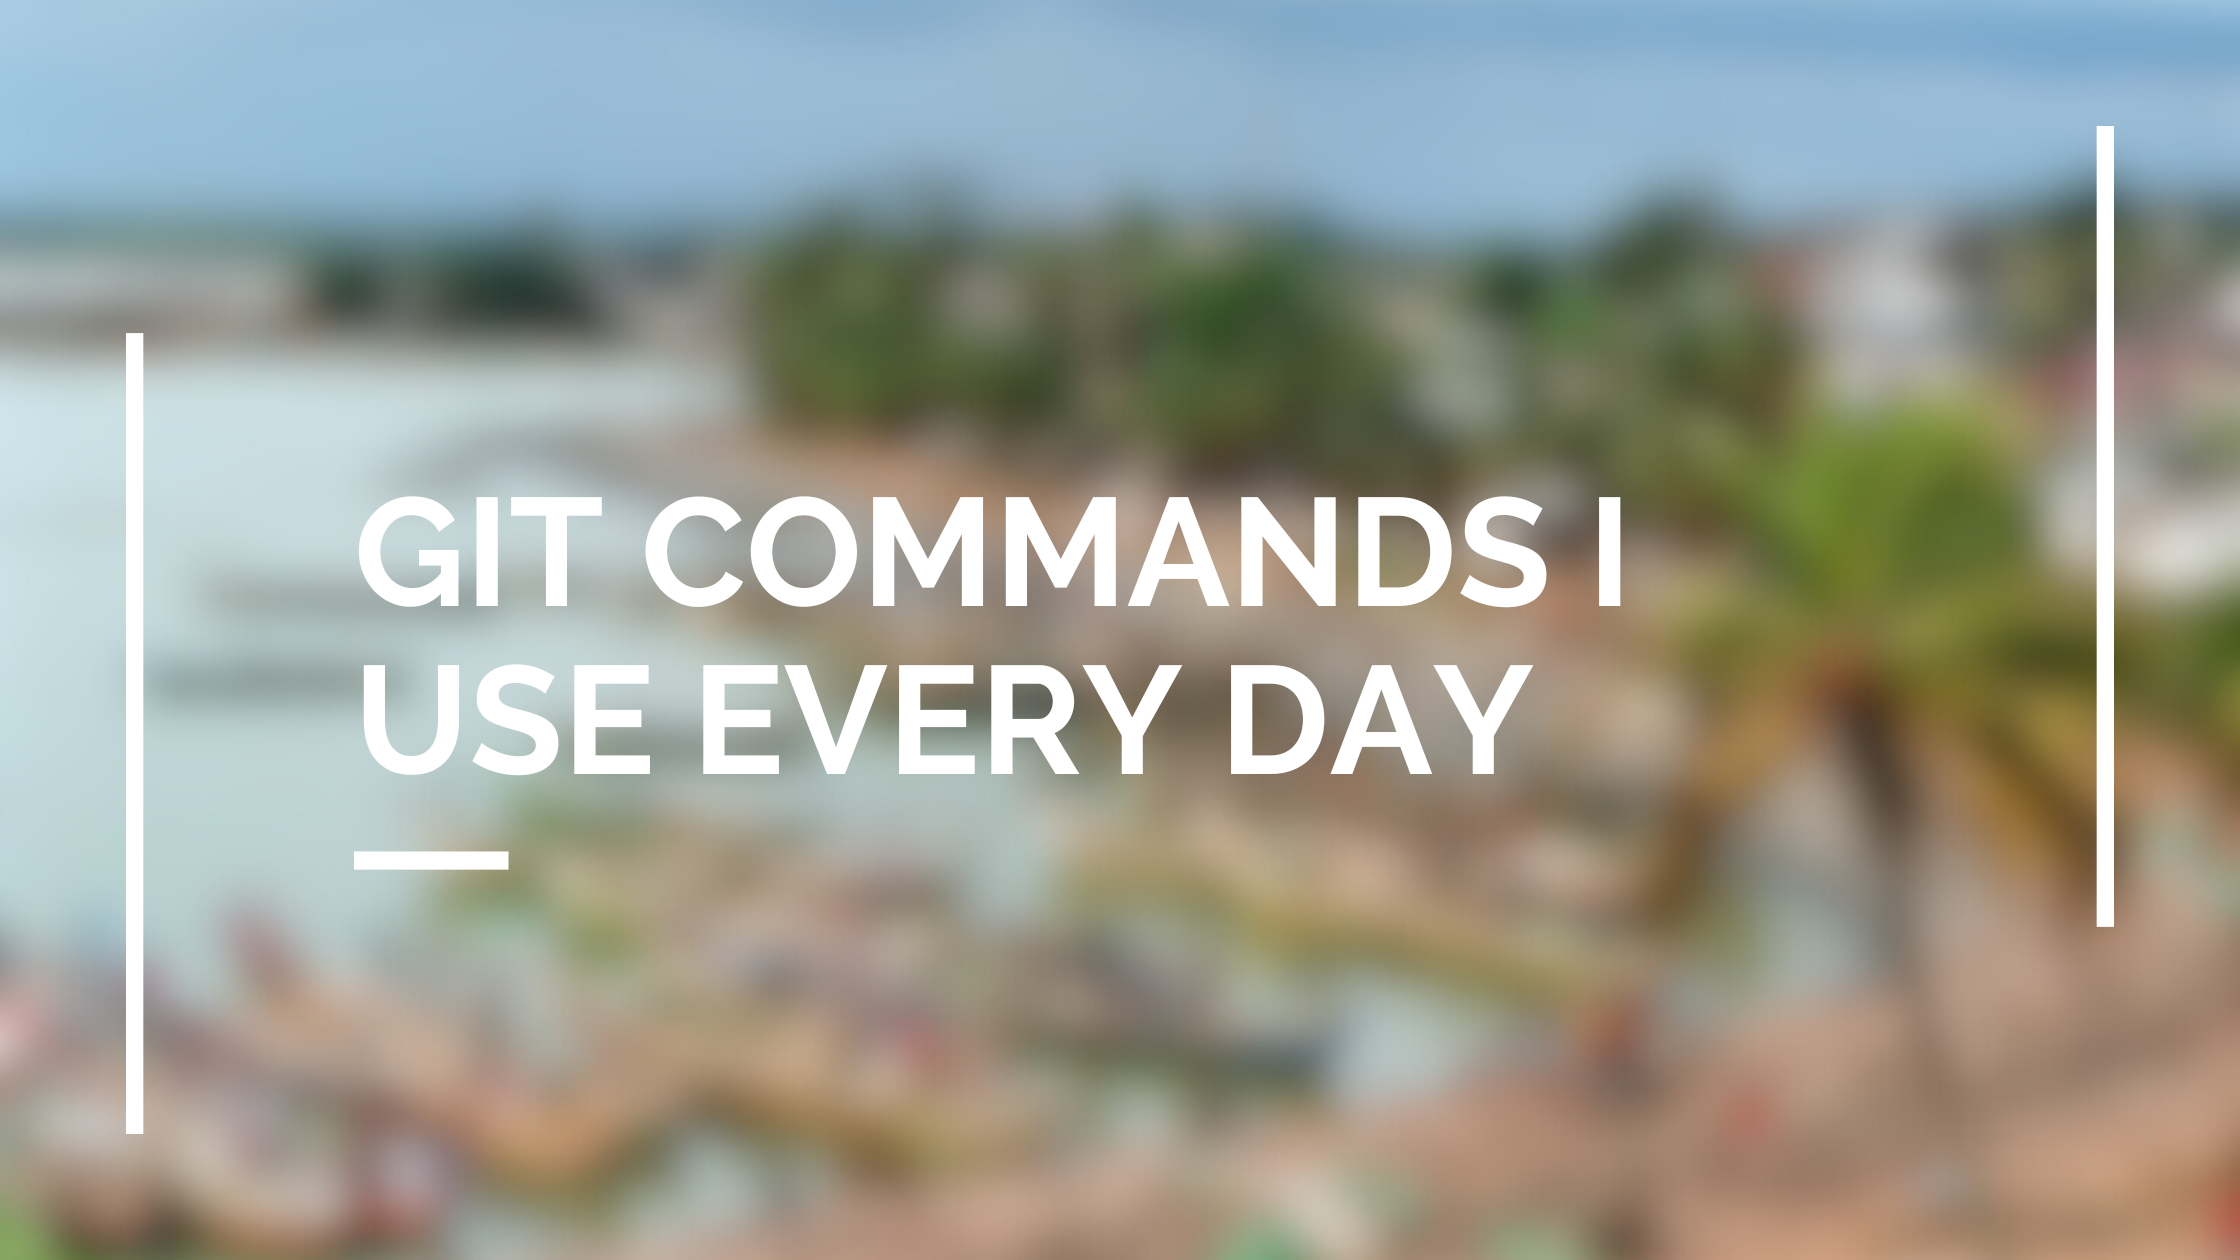
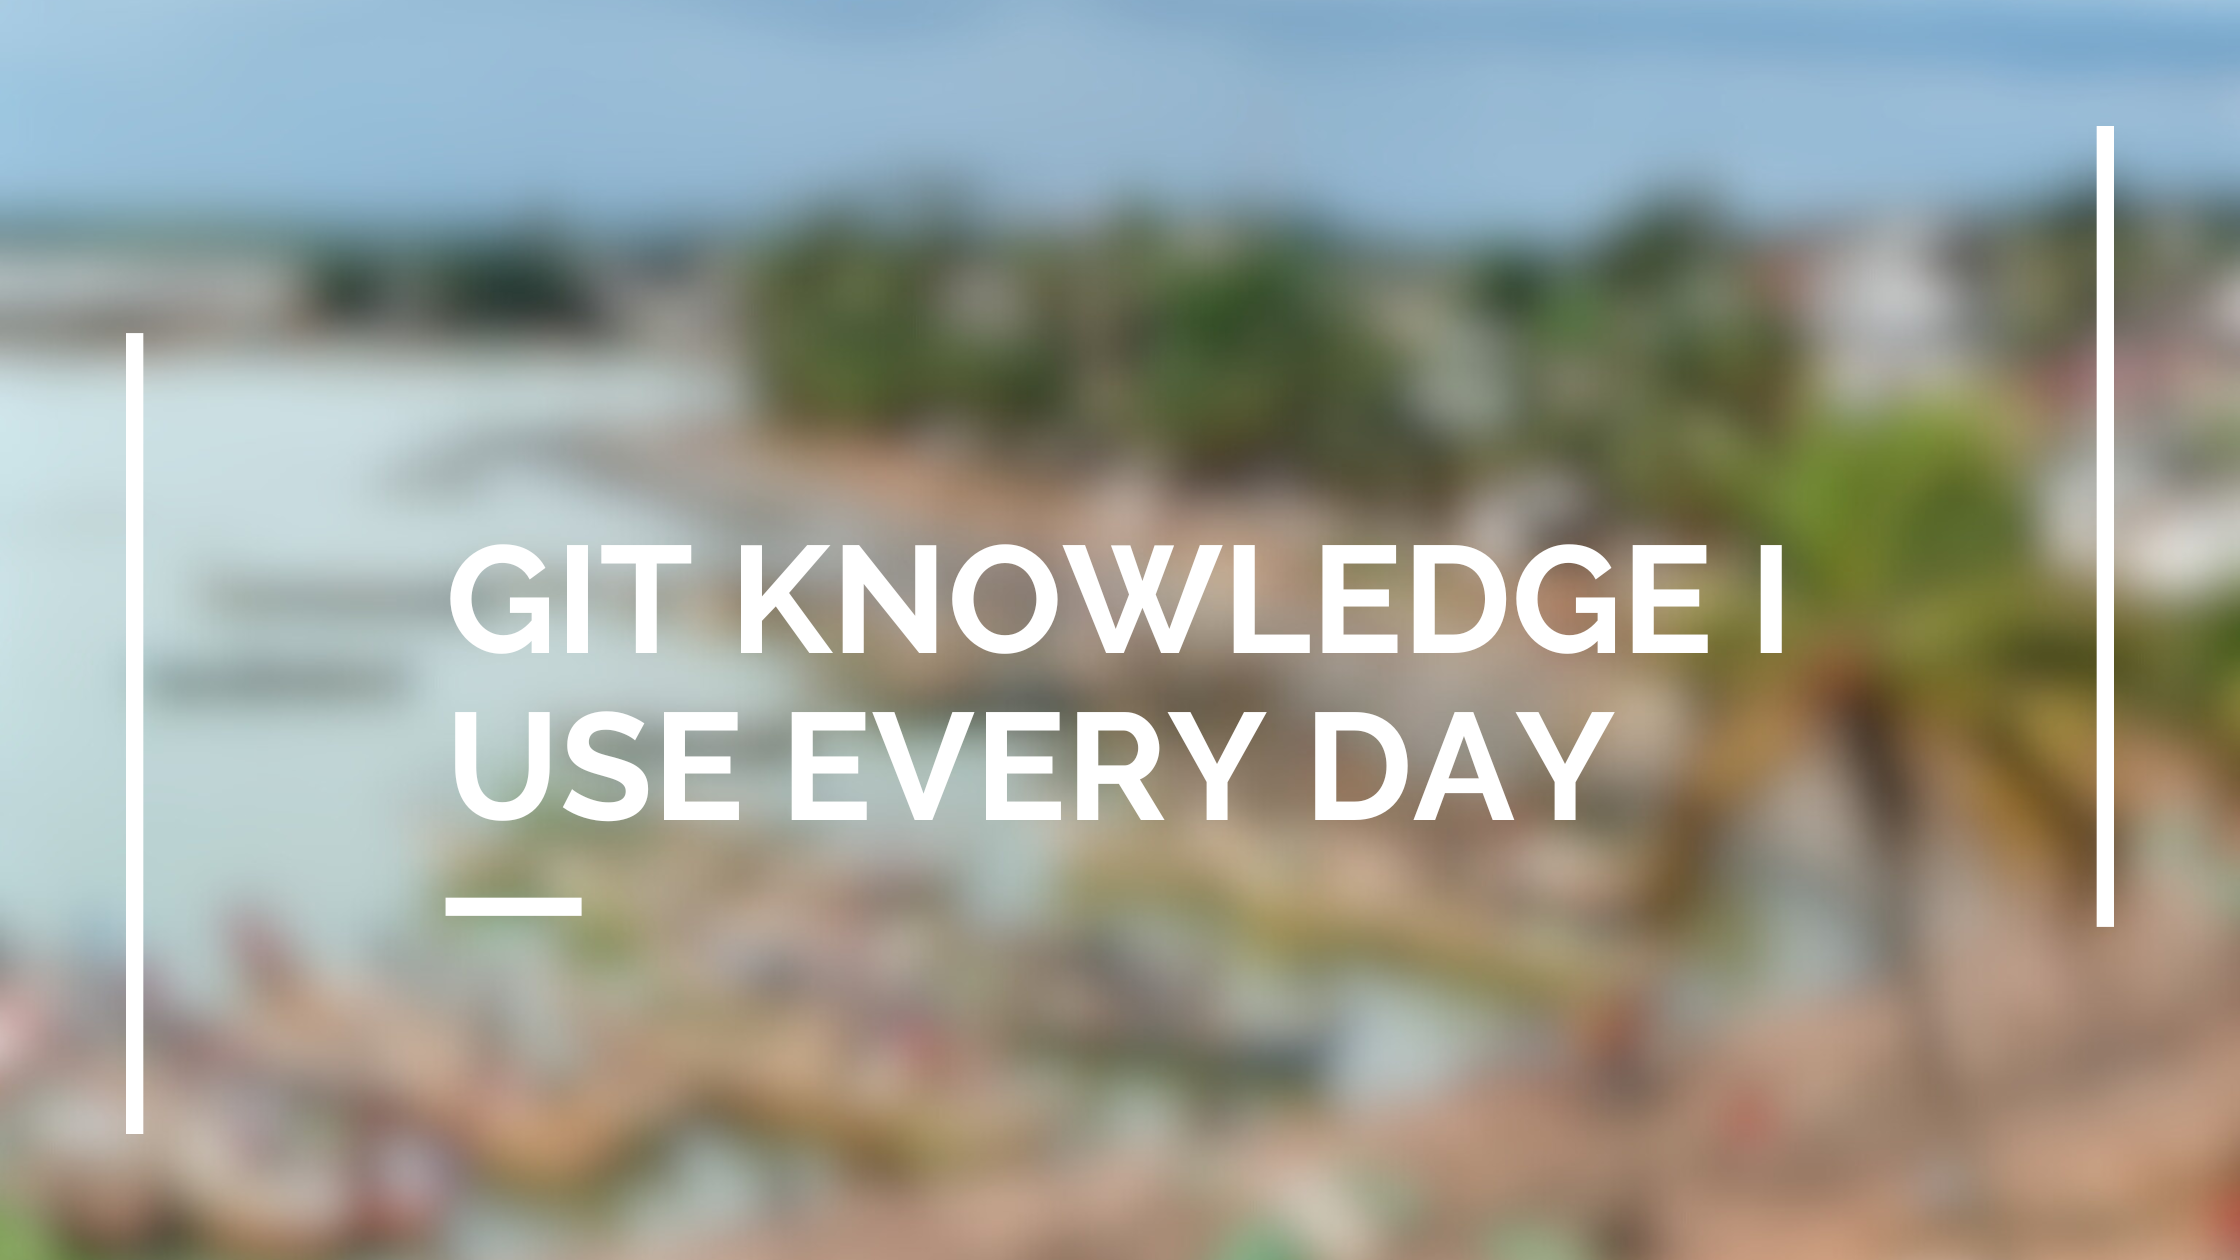
Added git reset to git post

Changed region(s): [[0.1562, 0.3714, 0.8125, 0.7429]]

diff --git a/_posts/24-07-09-git.md b/_posts/24-07-09-git.md
@@ -1,6 +1,6 @@
 ---
 layout: post
-title:  "Git Commands I Use Every Day"
+title:  "Git Knowledge I Use Every Day"
 categories: [DevOps]
 tags: [blog,tech,git,devops]
 image:
@@ -56,3 +56,60 @@ git diff HEAD HEAD~1
 ```
 
 `HEAD` references the most recent Git commit on the branch that you're on, and `HEAD~1` references that commit's immediate parent.
+
+### Broke Some Code, But Your Boss Didn't Like That?
+
+The notorious `git reset` is your friend! It's that one friend that can also give you a headache. However, if we know the friend well, we can get around that.
+
+The quick way is to simply use `git reset --hard` and everything you changed since the last commit is undone. But what if you already committed the broken code?
+Luckily, there is a way to undo this as well. That way is: `git reset --hard HEAD~1`. But before happily resetting everything, please read on!
+
+What is `HEAD~1`? Remember the `git diff` section? `HEAD` is a pointer to your current commit, and `HEAD~1` is pointing to this commit's parent, i.e. the commit that came before the current commit. 
+Using this as part of the git reset command moves the `HEAD` pointer back to your previous commit.
+ 
+But that's the brutal way, bringing your code back to the state of the previous commit. All the changes in the most recent commit are gone, even if there were any that you wanted to keep.
+
+Fortunately, there is a more nuanced way we can go about this.
+
+Those are the soft, mixed, or hard ways. Here's a quick rundown of what each of them means.
+
+```sh
+git reset --soft HEAD~1
+```
+
+Simply undoes the commit itself. All the broken code (and all changes in general) you created since the last commit is still there and staged, but not part of a commit.
+
+```sh
+git reset --mixed HEAD~1
+```
+
+Undoes the commit and unstages the last commit's code. This is what Git applies if you type git reset as well. This way, you can delete all the faulty code and keep what you want to keep. 
+
+```sh
+git reset --hard HEAD~1
+```
+
+Undoes all changes of the last commit. This one is called “hard” because you should think really hard before using this command. It's usually safer to simply use git reset.
+
+Of course, if you would like to reset to older commits, replace `HEAD~1` by `HEAD~x`, x being the amount of commits you want to reset.
+
+If you omit the `HEAD~1`, the same applies, however without shifting the `HEAD` pointer (i.e. without moving you back to your previous commit): 
+
+```sh
+git reset --soft
+```
+Doesn't do anything. Staged changes remain staged, the working directory remains in its current state.
+
+```sh
+git reset --mixed
+```
+
+Unstages any staged code.
+
+```sh
+git reset --hard
+```
+Unstages and removes any changes from the working directory.
+
+>If you're busy working with git commands, never Up Arrow + Enter without thinking. It has caused me significant pain and I hope to be able to spare you some of that!
+{: .prompt-tip}
